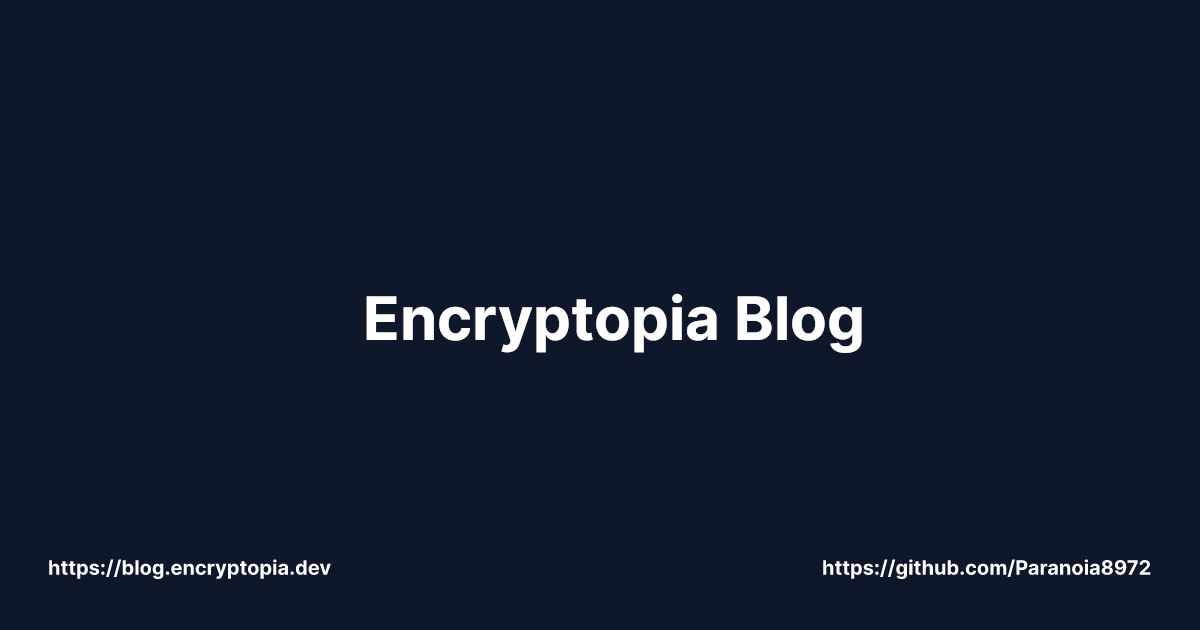
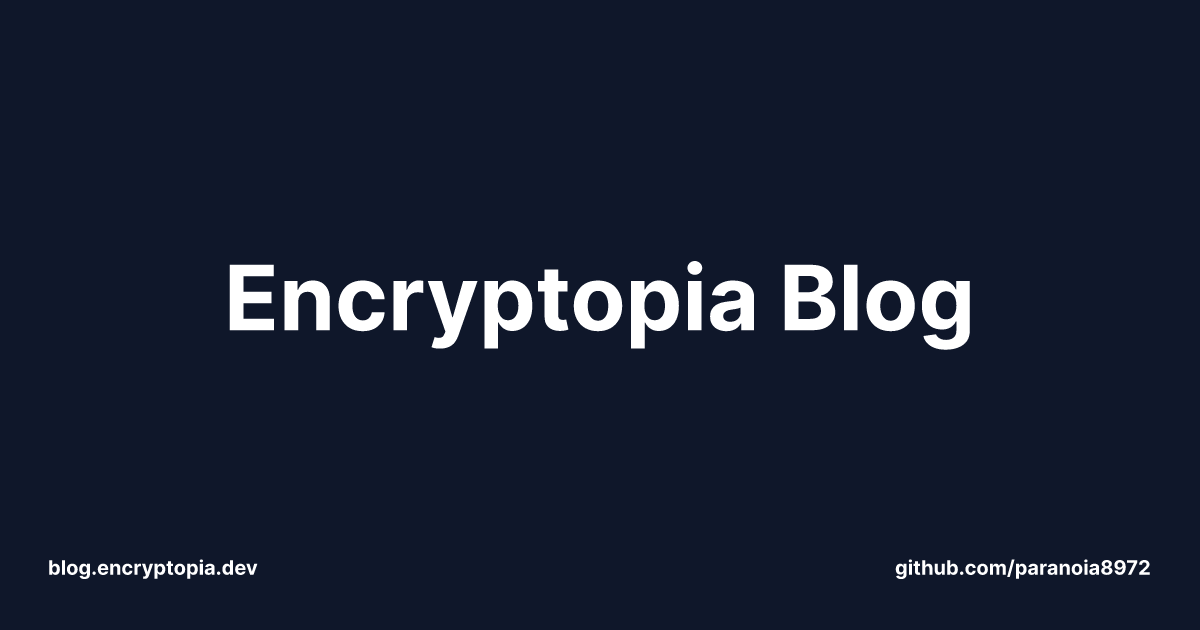
Added callouts and more

Changed region(s): [[0.185, 0.4222, 0.8325, 0.573], [0.6783, 0.8746, 0.9558, 0.9349], [0.0308, 0.8746, 0.2775, 0.9349]]

diff --git a/src/components/share-button.tsx b/src/components/share-button.tsx
@@ -2,7 +2,6 @@ import Link from 'next/link';
 import React from 'react';
 import { FaXTwitter, FaLinkedin } from "react-icons/fa6";
 import { FaRedditAlien } from "react-icons/fa";
-import { GoShare } from "react-icons/go";
 
 interface ShareButtonProps {
     text: string;
@@ -18,14 +17,14 @@ const ShareButton: React.FC<ShareButtonProps> = ({ text, url }) => {
         <div className="flex flex-col space-y-2 ml-auto">
             <p className="text-gray-400 text-sm">Share this post</p>
             <div className="flex space-x-4">
-                <Link href={twitterShareUrl} target="_blank" rel="noopener noreferrer" className="text-gray-200 hover:text-gray-200/75">
-                    <FaXTwitter className="size-5" />
+                <Link href={twitterShareUrl} target="_blank" rel="noopener noreferrer" className="">
+                    <FaXTwitter className="size-5 text-slate-600 hover:text-slate-600/80" />
                 </Link>
-                <Link href={redditShareUrl} target="_blank" rel="noopener noreferrer" className="text-gray-200 hover:text-gray-200/75 pl-1">
-                    <FaRedditAlien className="size-5" />
+                <Link href={redditShareUrl} target="_blank" rel="noopener noreferrer" className="pl-1">
+                    <FaRedditAlien className="size-5 text-slate-600 hover:text-slate-600/80" />
                 </Link>
-                <Link href={linkedinShareUrl} target="_blank" rel="noopener noreferrer" className="text-gray-200 hover:text-gray-200/75 pl-1">
-                    <FaLinkedin className="size-5" />
+                <Link href={linkedinShareUrl} target="_blank" rel="noopener noreferrer" className="pl-1">
+                    <FaLinkedin className="size-5 text-slate-600 hover:text-slate-600/80" />
                 </Link>
             </div>
         </div>

diff --git a/src/components/table-of-contents.tsx b/src/components/table-of-contents.tsx
@@ -1,0 +1,36 @@
+"use client"
+import React, { useEffect, useState } from 'react';
+
+interface TableOfContentsProps {
+    mdxContent: string;
+}
+
+const TableOfContents: React.FC<TableOfContentsProps> = ({ mdxContent }) => {
+    const [toc, setToc] = useState<string[]>([]);
+
+    useEffect(() => {
+        const headings = mdxContent.match(/<h1[^>]*>(.*?)<\/h1>|<h2[^>]*>(.*?)<\/h2>|<h3[^>]*>(.*?)<\/h3>|^(#{1,3})\s(.*)/gm);
+        if (headings) {
+            setToc(headings.map((heading) => {
+                if (heading.startsWith('<h1') || heading.startsWith('<h2') || heading.startsWith('<h3')) {
+                    return heading.replace(/<[^>]*>/g, '').trim();
+                } else {
+                    return heading.replace(/#/, '').trim();
+                }
+            }));
+        }
+    }, [mdxContent]);
+
+    return (
+        <div className="toc-container">
+            <h3>Table of Contents</h3>
+            <ul>
+                {toc.map((title, index) => (
+                    <li key={index}>{title}</li>
+                ))}
+            </ul>
+        </div>
+    );
+};
+
+export default TableOfContents;

diff --git a/src/app/api/og/route.tsx b/src/app/api/og/route.tsx
@@ -26,7 +26,7 @@ export async function GET(req: NextRequest) {
       (
         <div tw="flex relative flex-col p-12 w-full h-full items-start text-white bg-slate-900">
           <div tw="flex items-center">
-            <p tw="ml-2 font-bold text-2xl">Encryptopia Blog</p>
+            <p tw="font-bold text-2xl">Encryptopia Blog</p>
           </div>
           <div tw="flex flex-col flex-1 py-10">
             <div tw="flex text-xl uppercase font-bold tracking-tight font-normal">
@@ -35,9 +35,9 @@ export async function GET(req: NextRequest) {
             <div tw="flex text-[80px] font-bold text-[50px]">{heading}</div>
           </div>
           <div tw="flex items-center w-full justify-between">
-            <div tw="flex text-xl">{siteConfig.url}</div>
+            <div tw="flex text-xl">{siteConfig.url.replace("https://", "")}</div>
             <div tw="flex items-center text-xl">
-              <div tw="flex ml-2">{siteConfig.links.github}</div>
+              <div tw="flex ml-2">{siteConfig.links.github.replace("https://", "")}</div>
             </div>
           </div>
         </div>

diff --git a/src/app/post/[...slug]/page.tsx b/src/app/post/[...slug]/page.tsx
@@ -8,6 +8,7 @@ import { Tag } from "@/components/tag";
 import Image from "next/image";
 import ShareButton from "@/components/share-button";
 import { Comments } from "@/components/giscus";
+import TableOfContents from "@/components/table-of-contents";
 
 interface PostPageProps {
   params: {
@@ -110,6 +111,7 @@ export default async function PostPage({ params }: PostPageProps) {
           </div>
         </div>
       </div>
+      <TableOfContents mdxContent={post.body} />
       <div
         className="prose dark:prose-invert mb-5 mt-12 mx-6">
         <MDXContent code={post.body} />

diff --git a/src/components/giscus.tsx b/src/components/giscus.tsx
@@ -1,16 +1,9 @@
 "use client"
 import Script from 'next/script'
-import { useRouter } from 'next/navigation'
 import { useTheme } from 'next-themes'
 
 export function Comments() {
-    const router = useRouter()
-    const { theme, setTheme } = useTheme()
-
-    const handleThemeChange = (newTheme: string) => {
-        setTheme(newTheme)
-        router.replace(router.asPath)
-    }
+    const { theme } = useTheme()
 
     return (
         <>

diff --git a/src/components/ui/sheet.tsx b/src/components/ui/sheet.tsx
@@ -51,7 +51,7 @@ const sheetVariants = cva(
 
 interface SheetContentProps
   extends React.ComponentPropsWithoutRef<typeof SheetPrimitive.Content>,
-    VariantProps<typeof sheetVariants> {}
+  VariantProps<typeof sheetVariants> { }
 
 const SheetContent = React.forwardRef<
   React.ElementRef<typeof SheetPrimitive.Content>,

diff --git a/src/app/page.tsx b/src/app/page.tsx
@@ -1,4 +1,4 @@
-import { cn, sortPosts } from "@/lib/utils";
+import { sortPosts } from "@/lib/utils";
 import { posts } from "#site/content";
 import Link from "next/link";
 import { PostItem } from "@/components/post-item";

diff --git a/src/app/sitemap.ts b/src/app/sitemap.ts
@@ -1,5 +1,4 @@
 import { MetadataRoute } from 'next'
-
 import { posts } from '#site/content'
 import { siteConfig } from '#config'
 import { getAllTags, sortTagsByCount } from '@/lib/utils'
